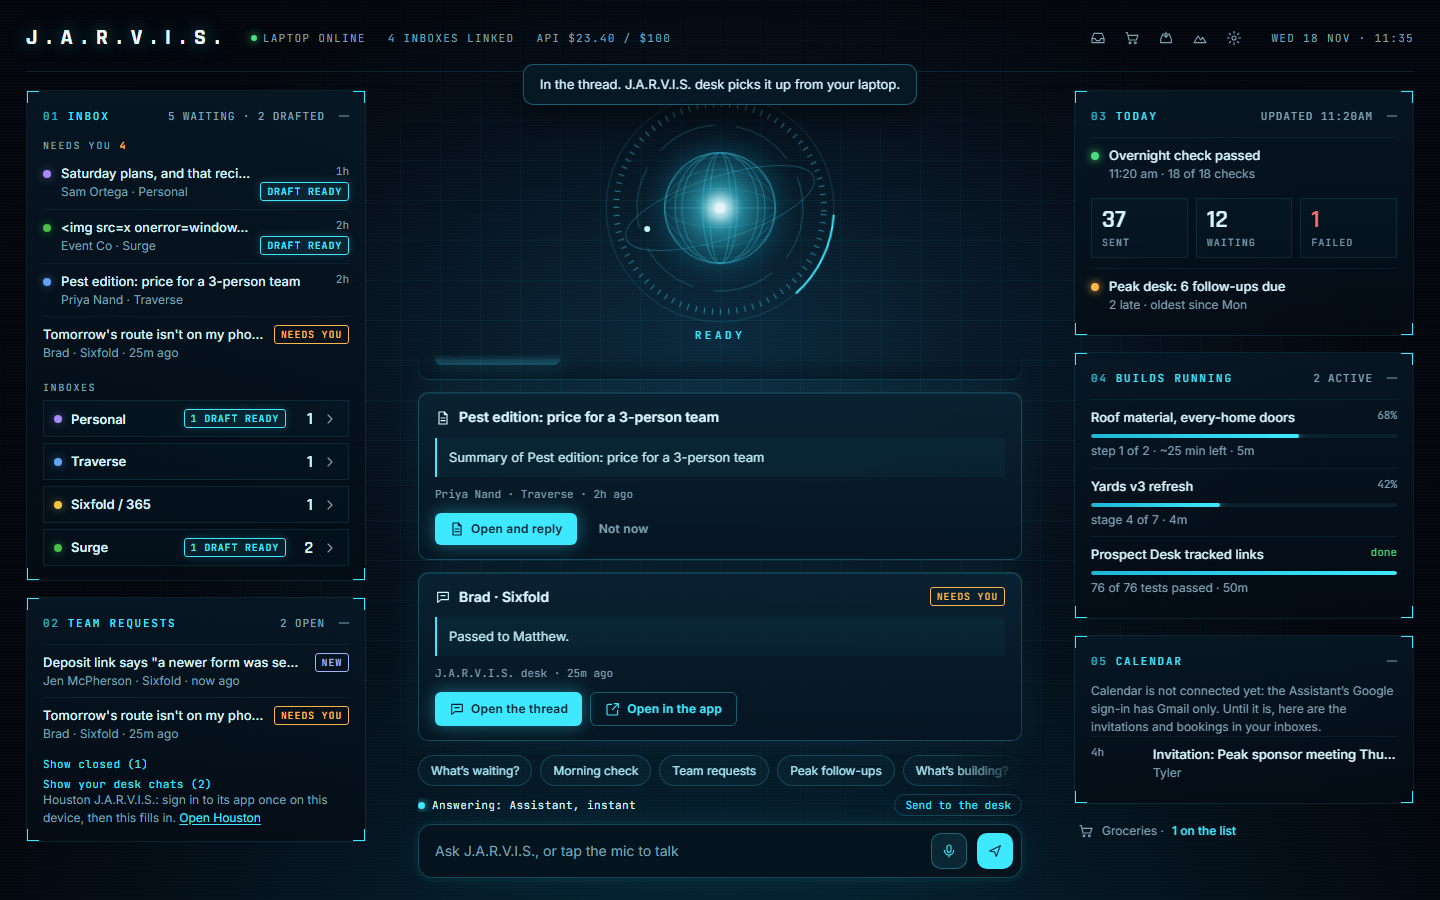
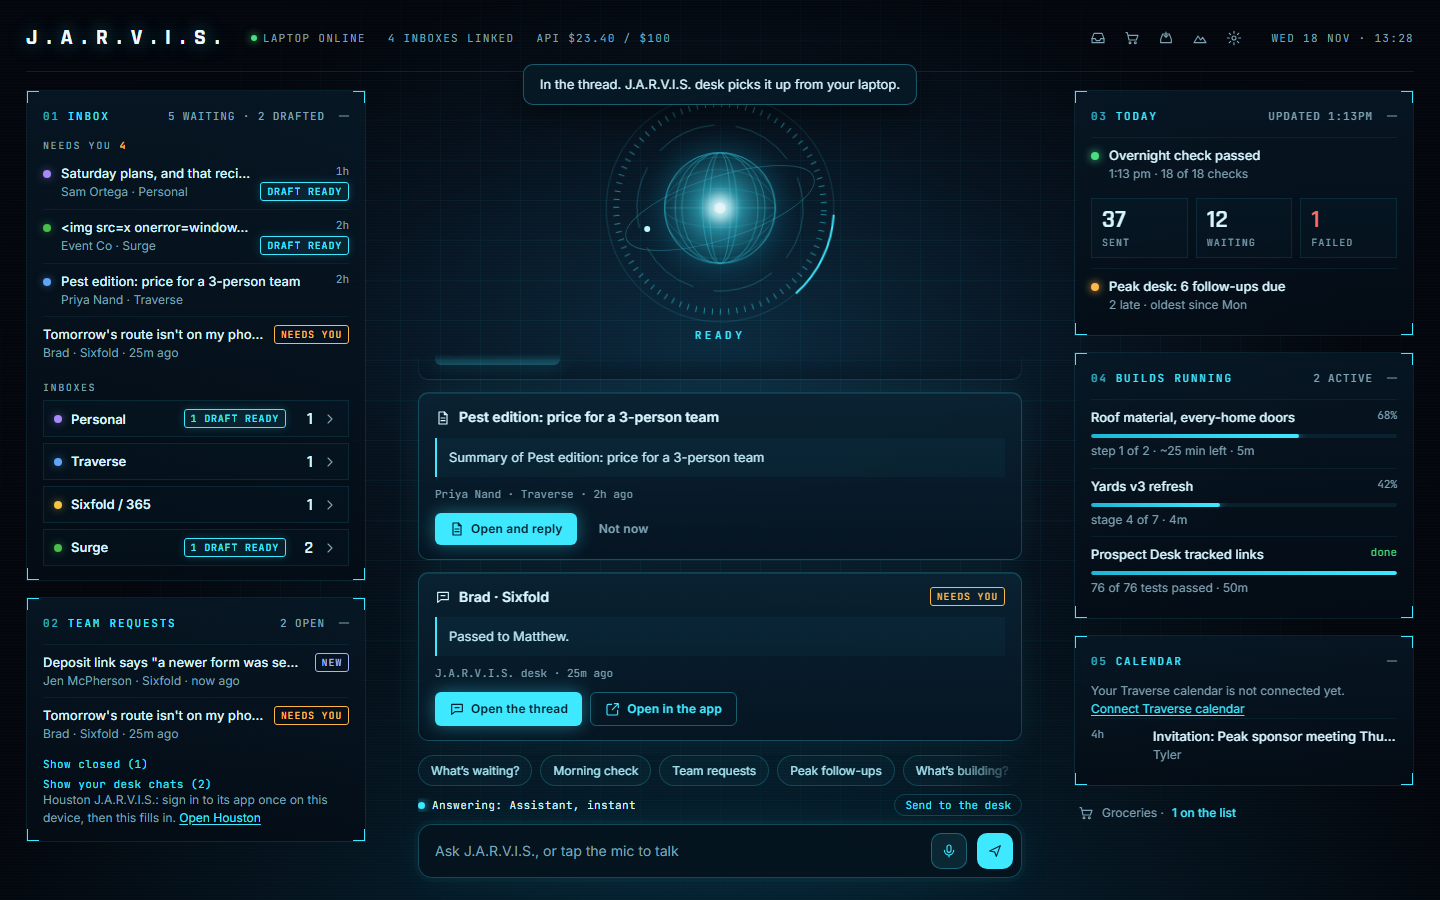
J.A.R.V.I.S. Calendar: the Traverse calendar (read only, next 7 days) with a Connect Traverse calendar button; Calendar permission asked only on that connect. Tests 105/105; LIVE, md5 match; backup before-jarvis-calendar

Changed region(s): [[0.75, 0.7467, 0.9688, 0.9333], [0.7812, 0.1867, 0.875, 0.2178], [0.875, 0.1244, 0.9062, 0.1556]]

diff --git a/assistant/jarvis/index.html b/assistant/jarvis/index.html
@@ -506,8 +506,28 @@ button.li:hover .lt{color:#fff}
     cal: function () {
       var c = S.st && S.st.calendar, out = [];
       if (!c) return el('div', 'empty', 'Looking…');
-      out.push(el('div', 'hint', 'Calendar is not connected yet: the Assistant’s Google sign-in has Gmail only. Until it is, here are the invitations and bookings in your inboxes.'));
-      if (!c.emails.length) out.push(el('div', 'empty', 'No calendar emails waiting.'));
+      /* 18 Nov: the Traverse calendar (read only), next 7 days; Connect asks Google for Calendar on that inbox and comes back here */
+      var cerr = new URLSearchParams(location.search).get('err');
+      function connectCal() { apost('connect', { cal: 1 }).then(function (r) { if (r.ok) location.href = r.url; else alert(r.error || 'Could not start the connect.'); }); }
+      if (c.source === 'none' || c.error) {
+        var h = el('div', 'hint'); add(h, c.error || (cerr ? 'Google said: ' + cerr : 'Your Traverse calendar is not connected yet. '), ' ', btn(c.source === 'none' ? 'Connect Traverse calendar' : 'Connect again', null, null, connectCal));
+        out.push(h);
+      }
+      if (c.events) {
+        var DOW = ['Sun', 'Mon', 'Tue', 'Wed', 'Thu', 'Fri', 'Sat'], MO = ['Jan', 'Feb', 'Mar', 'Apr', 'May', 'Jun', 'Jul', 'Aug', 'Sep', 'Oct', 'Nov', 'Dec'], last = '';
+        var ymdOf = function (s) { return String(s).slice(0, 10); };
+        var tm = function (s) { var m = /T(\d\d):(\d\d)/.exec(s); if (!m) return ''; var hh = +m[1], ap = hh < 12 ? 'am' : 'pm'; hh = hh % 12 || 12; return hh + (m[2] !== '00' ? ':' + m[2] : '') + ap; };
+        var today = new Date(), tY = today.getFullYear() + '-' + ('0' + (today.getMonth() + 1)).slice(-2) + '-' + ('0' + today.getDate()).slice(-2);
+        if (!c.events.length && !c.error) out.push(el('div', 'empty', 'Nothing on the ' + c.source + ' calendar in the next 7 days.'));
+        c.events.forEach(function (e) {
+          var d = ymdOf(e.start);
+          if (d !== last) { last = d; var p = d.split('-'), dt = new Date(+p[0], +p[1] - 1, +p[2]); out.push(el('div', 'lm', (d === tY ? 'TODAY · ' : '') + DOW[dt.getDay()] + ' ' + dt.getDate() + ' ' + MO[dt.getMonth()])); }
+          var r = el('div', 'li'), w = el('div'); w.style.cssText = 'width:52px;flex:none'; add(w, el('div', 'lm', e.allDay ? 'all day' : tm(e.start)));
+          var x = el('div', 'lx'); add(x, el('div', 'lt', e.title), e.where ? el('div', 'ls', e.where) : null);
+          add(r, w, x); out.push(r);
+        });
+        if (c.emails.length) out.push(el('div', 'lm', 'INVITES IN YOUR INBOXES'));
+      } else if (!c.emails.length) out.push(el('div', 'empty', 'No calendar emails waiting.'));
       c.emails.slice(0, 4).forEach(function (i) {
         var r = btn(null, null, 'li', function () { openMail(i); });
         var w = el('div'); w.style.cssText = 'width:52px;flex:none'; add(w, el('div', 'lm', ago(i.date)));

diff --git a/assistant/server/private/lib/jarvis.php b/assistant/server/private/lib/jarvis.php
@@ -25,12 +25,44 @@ function jvStatus(): array {
         $builds[] = ['id' => jvClean($b['id'] ?? '', 40), 'name' => jvClean($b['name'] ?? '', 90), 'state' => $st, 'pct' => $st === 'done' ? 100 : $pct,
             'step' => max(0, (int) ($b['step'] ?? 0)), 'steps' => max(0, (int) ($b['steps'] ?? 0)), 'note' => jvClean($b['note'] ?? '', 140), 'at' => $at];
     }
-    /* calendar: the Assistant's Google sign-in has Gmail only (gmail.modify), no Calendar scope, so there is no calendar to read yet.
-       Until then: the invitations and bookings the sorter filed as "calendar" in his inboxes. */
+    /* calendar (18 Nov): the Traverse inbox's own Google Calendar once Matthew connects it with Calendar (read only); he keeps business
+       and personal items there. Until then, and alongside: the invitations and bookings the sorter filed as "calendar" in his inboxes. */
     $cal = [];
     foreach (jget('items.json') as $it) if (($it['status'] ?? 'open') === 'open' && ($it['category'] ?? '') === 'calendar')
         $cal[] = ['key' => $it['acct'] . ':' . $it['id'], 'acct' => $it['acct'], 'id' => (string) $it['id'], 'threadId' => (string) ($it['threadId'] ?? ''), 'draftId' => $it['draftId'] ?? null, 'subject' => (string) $it['subject'], 'from' => (string) $it['from'], 'date' => (int) $it['date'], 'summary' => (string) ($it['summary'] ?? '')];
     usort($cal, fn($a, $b) => $b['date'] <=> $a['date']);
     return ['ok' => true, 'now' => $now, 'pushedAt' => $pushed, 'overnight' => $over, 'builds' => $builds,
-        'calendar' => ['source' => 'none', 'need' => 'Google Calendar (read only) is not part of the Assistant\'s Google sign-in yet.', 'emails' => array_slice($cal, 0, 6)]];
+        'calendar' => jvCalendar() + ['emails' => array_slice($cal, 0, 6)]];
+}
+/** the next 7 days of the Traverse inbox's primary calendar (any connected calendar if Traverse has none), cached 5 minutes. Read only. */
+function jvCalendar(): array {
+    $acc = null;
+    foreach (jget('accounts.json') as $e => $a) if (!empty($a['cal']) && !empty($a['refresh']) && ($a['on'] ?? true)) { if (!$acc || ($a['label'] ?? '') === 'Traverse') $acc = $a; }
+    if (!$acc) return ['source' => 'none', 'need' => 'Connect the Traverse calendar to see it here.'];
+    $email = (string) $acc['email']; $label = (string) ($acc['label'] ?? $email);
+    $cf = aDataDir() . '/jarvis/cal-cache.json';
+    $c = is_file($cf) ? json_decode((string) file_get_contents($cf), true) : null;
+    if (is_array($c) && ($c['email'] ?? '') === $email && time() - (int) ($c['at'] ?? 0) < 300) return $c['out'];
+    $tz = new DateTimeZone('America/Denver'); $from = new DateTime('today', $tz); $to = (clone $from)->modify('+7 days');
+    $tok = gToken($email);
+    if (!$tok) return ['source' => $label, 'error' => 'The ' . $label . ' calendar needs reconnecting.', 'events' => []];
+    $r = http('GET', 'https://www.googleapis.com/calendar/v3/calendars/primary/events?' . http_build_query(['timeMin' => $from->format(DATE_RFC3339), 'timeMax' => $to->format(DATE_RFC3339),
+        'singleEvents' => 'true', 'orderBy' => 'startTime', 'maxResults' => 40, 'timeZone' => 'America/Denver']), null, null, ['Authorization: Bearer ' . $tok]);
+    if (($r['_status'] ?? 0) !== 200) {
+        $why = (string) ($r['error']['errors'][0]['reason'] ?? $r['error']['status'] ?? '');
+        $msg = in_array($why, ['accessNotConfigured', 'SERVICE_DISABLED'], true) ? 'Google Calendar API is switched off in the Assistant\'s Google Cloud project: turn it on, then wait a minute.'
+            : (in_array($why, ['insufficientPermissions', 'ACCESS_TOKEN_SCOPE_INSUFFICIENT', 'PERMISSION_DENIED'], true) ? 'The ' . $label . ' inbox was connected without Calendar: connect the calendar again.' : 'Google Calendar did not answer (HTTP ' . (int) ($r['_status'] ?? 0) . ').');
+        if (function_exists('alog')) alog('calendar read failed', ['email' => $email, 'status' => (int) ($r['_status'] ?? 0), 'reason' => $why]);
+        return ['source' => $label, 'error' => $msg, 'events' => []];
+    }
+    $ev = [];
+    foreach ((array) ($r['items'] ?? []) as $i) {
+        if (($i['status'] ?? '') === 'cancelled') continue;
+        $all = isset($i['start']['date']) && !isset($i['start']['dateTime']);
+        $ev[] = ['title' => jvClean($i['summary'] ?? '(busy)', 120), 'start' => (string) ($i['start']['dateTime'] ?? $i['start']['date'] ?? ''), 'end' => (string) ($i['end']['dateTime'] ?? $i['end']['date'] ?? ''),
+            'allDay' => $all, 'where' => jvClean($i['location'] ?? '', 80)];
+    }
+    $out = ['source' => $label, 'events' => $ev];
+    @mkdir(dirname($cf), 0700, true); file_put_contents($cf, json_encode(['email' => $email, 'at' => time(), 'out' => $out]), LOCK_EX); @chmod($cf, 0600);
+    return $out;
 }

diff --git a/assistant/server/private/lib/google.php b/assistant/server/private/lib/google.php
@@ -5,6 +5,9 @@
 declare(strict_types=1);
 
 const G_SCOPES = 'https://www.googleapis.com/auth/gmail.modify';
+/* 18 Nov (Matthew: "it should show my traverse one, which ill add both business and personal items to"): Calendar, READ ONLY, asked for
+   only when he connects a calendar from J.A.R.V.I.S. (Connect with cal), so the other inboxes stay Gmail-only. */
+const G_CAL_SCOPE = 'https://www.googleapis.com/auth/calendar.readonly';
 
 function gClient(): array {
     $c = cfg();
@@ -28,12 +31,15 @@ function http(string $method, string $url, ?array $form = null, ?array $json = n
     return $j;
 }
 /** where the person goes to say yes; the state ties the answer back to this signed-in session */
-function gAuthUrl(): string {
+function gAuthUrl(bool $cal = false): string {
     aSessionStart();
     $_SESSION['gstate'] = bin2hex(random_bytes(16));
+    $_SESSION['greturn'] = $cal ? 'jarvis/' : '';   /* a calendar connect started on J.A.R.V.I.S. goes back there */
     return 'https://accounts.google.com/o/oauth2/v2/auth?' . http_build_query(['client_id' => gClient()['id'], 'redirect_uri' => gRedirect(), 'response_type' => 'code',
-        'scope' => G_SCOPES, 'access_type' => 'offline', 'prompt' => 'consent select_account', 'include_granted_scopes' => 'true', 'state' => $_SESSION['gstate']]);
+        'scope' => G_SCOPES . ($cal ? ' ' . G_CAL_SCOPE : ''), 'access_type' => 'offline', 'prompt' => 'consent select_account', 'include_granted_scopes' => 'true', 'state' => $_SESSION['gstate']]);
 }
+/** where the oauth answer sends the page back to (set by gAuthUrl, used once) */
+function gReturn(): string { aSessionStart(); $r = (string) ($_SESSION['greturn'] ?? ''); unset($_SESSION['greturn']); return $r === 'jarvis/' ? 'jarvis/' : ''; }
 /** Google sends the person back here with a code: trade it for tokens, find out which address it is, keep the refresh token */
 function gCallback(string $code, string $state): ?string {
     aSessionStart();
@@ -49,7 +55,8 @@ function gCallback(string $code, string $state): ?string {
         $old = $a[$email] ?? [];
         $a[$email] = ['email' => $email, 'label' => $old['label'] ?? accountLabel($email), 'about' => $old['about'] ?? accountAbout($email), 'signature' => $old['signature'] ?? 'Matthew',
             'refresh' => (string) ($t['refresh_token'] ?? ($old['refresh'] ?? '')), 'access' => (string) $t['access_token'], 'accessUntil' => time() + (int) ($t['expires_in'] ?? 3000) - 60,
-            'connected' => $old['connected'] ?? time(), 'lastCheck' => $old['lastCheck'] ?? 0, 'on' => $old['on'] ?? true];
+            'connected' => $old['connected'] ?? time(), 'lastCheck' => $old['lastCheck'] ?? 0, 'on' => $old['on'] ?? true,
+            'cal' => str_contains((string) ($t['scope'] ?? ''), 'auth/calendar') || !empty($old['cal'])];   /* Google lists every granted scope */
         return $a;
     });
     alog('account connected', ['email' => $email]);

diff --git a/assistant/server/private/app.php b/assistant/server/private/app.php
@@ -20,7 +20,7 @@ if ($isPost && !sameOrigin()) out(['ok' => false, 'error' => 'Not from this page
 if ($action === 'oauth') {
     if (!signedIn()) { header('Location: ./?err=' . rawurlencode('Sign in first, then connect.')); exit; }
     $err = isset($_GET['error']) ? 'Google said: ' . (string) $_GET['error'] : gCallback((string) ($_GET['code'] ?? ''), (string) ($_GET['state'] ?? ''));
-    header('Location: ./' . ($err ? '?err=' . rawurlencode($err) : '?connected=1')); exit;
+    $back = gReturn(); header('Location: ./' . $back . ($err ? '?err=' . rawurlencode($err) : '?connected=1')); exit;
 }
 if ($action === 'state') {   /* what the page needs before signing in */
     $c = cfg();
@@ -69,7 +69,7 @@ if ($action === 'setup') {   /* keys go in here, never through chat; an empty fi
 }
 if ($action === 'connect') {
     if (empty(gClient()['id'])) out(['ok' => false, 'error' => 'Add the Google client in Setup first.']);
-    out(['ok' => true, 'url' => gAuthUrl()]);
+    out(['ok' => true, 'url' => gAuthUrl(!empty($body['cal']))]);
 }
 if ($action === 'account') {   /* label, what the inbox is for, sign-off, on or off, or disconnect */
     $email = strtolower((string) ($body['email'] ?? ''));

diff --git a/assistant/README.md b/assistant/README.md
@@ -80,7 +80,7 @@ Matthew: "Yeah I want it them merged together. It will give jarvis application m
   - **02 Team requests:** the Field app's and the Houston install's `helplist`, read with Matthew's own sign-in in each app. A 401 shows "sign in to its app once".
   - **03 Today:** the overnight check comes from `action=jvstatus`. Outbox's sent, waiting and failed come from Outbox's own `api.php?action=state`. Peak desk follow-ups due and late come from the desk's `api/desk.php?action=data`, which is read only.
   - **04 Builds:** `jvstatus`.
-  - **05 Calendar:** a placeholder for now, plus the "calendar" emails.
+  - **05 Calendar (18 Nov):** the Traverse inbox's primary Google Calendar, read only, next 7 days (`jvCalendar()` in `lib/jarvis.php`, cached 5 minutes in `data/jarvis/cal-cache.json`), then the "calendar" emails. Matthew: "it should show my traverse one, which ill add both business and personal items to". **Connect Traverse calendar** posts `connect` with `cal`, which adds `calendar.readonly` to that one sign-in only (other inboxes stay Gmail-only) and returns to `jarvis/`. The account is marked `cal` from Google's granted scopes. Errors shown in the panel: Calendar API off in the Cloud project, or connected without Calendar.
   - **Groceries:** `action=gro`.
 - **Crowding:** the inbox rows fold, and so does "Needs you" (4 shown). Each side panel folds into an icon on its edge, with a count. Folded and open state is kept per device in localStorage (`jarvis.fold`, `jarvis.open`, `jarvis.brain`). On a phone the panels become the Inbox, Team, Today and More tabs.
 - **Laptop status:** `lib/jarvis.php` serves `data/jarvis/status.json` (0600), passing only whitelisted fields. The file is written by `assistant/jarvis/tools/jarvis-status.sh`:
